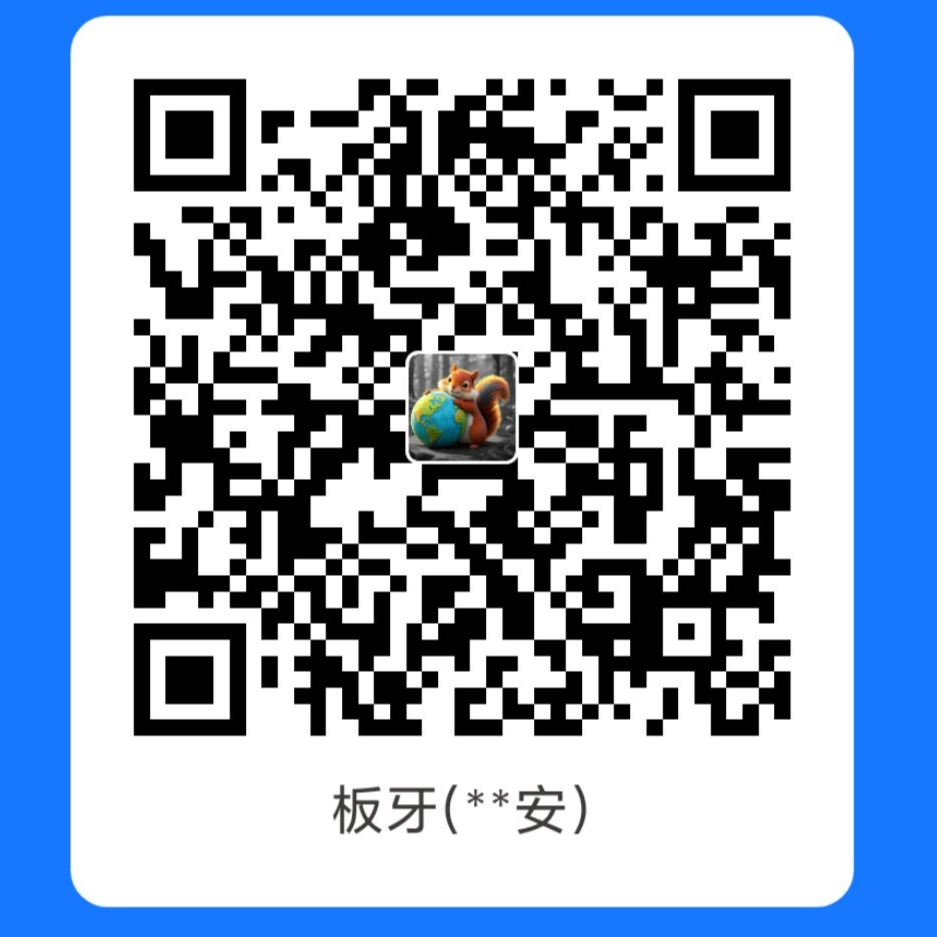
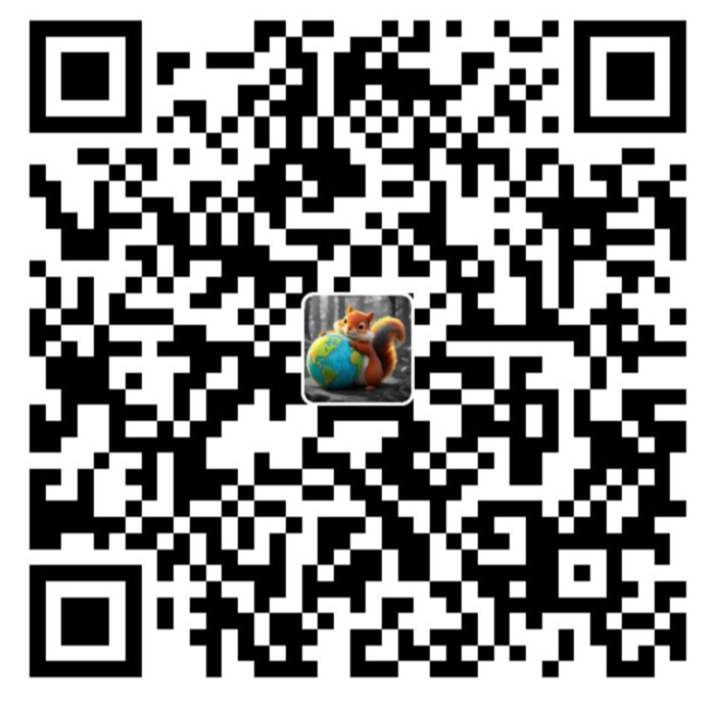
Site updated: 2026-02-08 20:44:09

diff --git a/2026/02/08/模拟海平面上升200米，中国会变成什么样子？/index.html b/2026/02/08/模拟海平面上升200米，中国会变成什么样子？/index.html
@@ -26,16 +26,16 @@
 <meta property="og:site_name" content="星球小捕手">
 <meta property="og:description" content="一、海平面上升这张图是海平面上升 200 米后的中国地形与淹没示意图，我国三大平原、沿海低地几乎全部被淹，仅高原、山地、高海拔盆地保留，海岸线大幅西退。  海平面上升 200 米属于极端理论假设，现实中全球冰盖全部融化，海平面仅会上升约 66 米，远低于 200 米；该图为地形科普示意，用于直观体现中国西高东低的三级阶梯地形对海平面上升的脆弱性差异，东部平原海拔普遍低于 200 米，是淹没高风险区">
 <meta property="og:locale" content="zh_CN">
-<meta property="og:image" content="http://blog.planetcatcher.cn/source/images/2026-2-8-%E4%B8%AD%E5%9B%BD%E5%85%A8%E5%8D%87200.webp">
-<meta property="og:image" content="http://blog.planetcatcher.cn/source/images/2026-2-8%E4%B8%9C%E5%8C%97%E5%8D%87200.webp">
-<meta property="og:image" content="http://blog.planetcatcher.cn/source/images/2026-2-8-%E5%8D%8E%E5%8C%97%E5%8D%87200.webp">
-<meta property="og:image" content="http://blog.planetcatcher.cn/source/images/2026-2-8-%E4%B8%AD%E5%8E%9F%E5%8D%87200.webp">
-<meta property="og:image" content="http://blog.planetcatcher.cn/source/images/2026-2-8-%E5%8D%97%E6%96%B9%E5%8D%87200.webp">
-<meta property="og:image" content="http://blog.planetcatcher.cn/source/images/2026-2-8-%E5%B9%BF%E8%A5%BF%E5%8D%87200.webp">
-<meta property="og:image" content="http://blog.planetcatcher.cn/source/images/2026-2-8-%E8%A5%BF%E8%97%8F%E5%8D%87200.webp">
-<meta property="og:image" content="http://blog.planetcatcher.cn/source/images/2026-2-8%E4%B8%AD%E5%9B%BD%E5%85%A8%E5%8D%87200%EF%BC%88%E6%A0%87%E6%B3%A8%EF%BC%89.webp">
+<meta property="og:image" content="https://planetcatcher.cn/2026-2-8-%E4%B8%AD%E5%9B%BD%E5%85%A8%E5%8D%87200.webp">
+<meta property="og:image" content="https://planetcatcher.cn/2026-2-8%E4%B8%9C%E5%8C%97%E5%8D%87200.webp">
+<meta property="og:image" content="https://planetcatcher.cn/2026-2-8-%E5%8D%8E%E5%8C%97%E5%8D%87200.webp">
+<meta property="og:image" content="https://planetcatcher.cn/2026-2-8-%E4%B8%AD%E5%8E%9F%E5%8D%87200.webp">
+<meta property="og:image" content="https://planetcatcher.cn/2026-2-8-%E5%8D%97%E6%96%B9%E5%8D%87200.webp">
+<meta property="og:image" content="https://planetcatcher.cn/2026-2-8-%E5%B9%BF%E8%A5%BF%E5%8D%87200.webp">
+<meta property="og:image" content="https://planetcatcher.cn/2026-2-8-%E8%A5%BF%E8%97%8F%E5%8D%87200.webp">
+<meta property="og:image" content="https://planetcatcher.cn/2026-2-8%E4%B8%AD%E5%9B%BD%E5%85%A8%E5%8D%87200%EF%BC%88%E6%A0%87%E6%B3%A8%EF%BC%89.webp">
 <meta property="article:published_time" content="2026-02-08T06:42:10.000Z">
-<meta property="article:modified_time" content="2026-02-08T12:10:43.287Z">
+<meta property="article:modified_time" content="2026-02-08T12:41:59.909Z">
 <meta property="article:author" content="板牙">
 <meta property="article:tag" content="海平面模拟">
 <meta property="article:tag" content="地图可视化">
@@ -44,7 +44,7 @@
 <meta property="article:tag" content="公众号同步">
 <meta property="article:tag" content="海平面上升">
 <meta name="twitter:card" content="summary">
-<meta name="twitter:image" content="http://blog.planetcatcher.cn/source/images/2026-2-8-%E4%B8%AD%E5%9B%BD%E5%85%A8%E5%8D%87200.webp">
+<meta name="twitter:image" content="https://planetcatcher.cn/2026-2-8-%E4%B8%AD%E5%9B%BD%E5%85%A8%E5%8D%87200.webp">
 
 
 <link rel="canonical" href="http://blog.planetcatcher.cn/2026/02/08/%E6%A8%A1%E6%8B%9F%E6%B5%B7%E5%B9%B3%E9%9D%A2%E4%B8%8A%E5%8D%87200%E7%B1%B3%EF%BC%8C%E4%B8%AD%E5%9B%BD%E4%BC%9A%E5%8F%98%E6%88%90%E4%BB%80%E4%B9%88%E6%A0%B7%E5%AD%90%EF%BC%9F/">
@@ -247,7 +247,7 @@
       <span class="post-meta-item-text">发表于</span>
       
 
-      <time title="创建时间：2026-02-08 14:42:10 / 修改时间：20:10:43" itemprop="dateCreated datePublished" datetime="2026-02-08T14:42:10+08:00">2026-02-08</time>
+      <time title="创建时间：2026-02-08 14:42:10 / 修改时间：20:41:59" itemprop="dateCreated datePublished" datetime="2026-02-08T14:42:10+08:00">2026-02-08</time>
     </span>
     <span class="post-meta-item">
       <span class="post-meta-item-icon">
@@ -269,7 +269,7 @@
     
     
     <div class="post-body" itemprop="articleBody"><h1 id="一、海平面上升"><a href="#一、海平面上升" class="headerlink" title="一、海平面上升"></a>一、海平面上升</h1><p>这张图是<strong>海平面上升 200 米</strong>后的中国地形与淹没示意图，我国三大平原、沿海低地几乎全部被淹，仅高原、山地、高海拔盆地保留，海岸线大幅西退。</p>
-<p><img data-src="/../source/images/2026-2-8-%E4%B8%AD%E5%9B%BD%E5%85%A8%E5%8D%87200.webp" alt="2026-2-8-中国全升200"></p>
+<p><img data-src="https://planetcatcher.cn/2026-2-8-%E4%B8%AD%E5%9B%BD%E5%85%A8%E5%8D%87200.webp"></p>
 <p><strong>海平面上升 200 米属于极端理论假设，现实中全球冰盖全部融化，海平面仅会上升约 66 米，远低于 200 米</strong>；该图为地形科普示意，用于直观体现中国西高东低的三级阶梯地形对海平面上升的脆弱性差异，东部平原海拔普遍低于 200 米，是淹没高风险区，西部高原山地则具备绝对的地形安全优势。</p>
 <span id="more"></span>
 
@@ -279,30 +279,30 @@
 <li><em>数据基于NASA，利用专业制图软件进行模拟；</em></li>
 <li><em>上升高度为200米（海拔）。</em></li>
 </ol>
-<h2 id="（1）东北区域"><a href="#（1）东北区域" class="headerlink" title="（1）东北区域"></a>（1）东北区域</h2><p><img data-src="/../source/images/2026-2-8%E4%B8%9C%E5%8C%97%E5%8D%87200.webp" alt="2026-2-8东北升200"></p>
+<h2 id="（1）东北区域"><a href="#（1）东北区域" class="headerlink" title="（1）东北区域"></a>（1）东北区域</h2><p><img data-src="https://planetcatcher.cn/2026-2-8%E4%B8%9C%E5%8C%97%E5%8D%87200.webp"></p>
 <p><strong>辽河平原</strong>：作为东北平原南部，直接与渤海连成一片，向南直连华北淹没区，辽宁中部平原完全沉入水下。<strong>三江平原</strong>：黑龙江、乌苏里江、松花江下游平原被海水倒灌淹没，与日本海北部水域连通。</p>
 <p><strong>图中标注的东北三大核心城市全部处于淹没区。</strong></p>
 <p><strong>东北仅海拔高于 200 米的山脉、山地保留为连续陆地，成为孤岛状陆地块：</strong></p>
 <p>	·大兴安岭：西侧完整保留，东侧直接成为新海岸线；</p>
 <p>	·小兴安岭：横亘在淹没区北部，成为半岛型陆地；</p>
 <p>	·长白山脉（太白山脉）、锡霍特山脉：东部纵向山脉完整保留，分隔日本海与内陆淹没海湾，成为东北最主要的连片陆地。</p>
-<h2 id="（2）华北平原"><a href="#（2）华北平原" class="headerlink" title="（2）华北平原"></a>（2）华北平原</h2><p><img data-src="/../source/images/2026-2-8-%E5%8D%8E%E5%8C%97%E5%8D%87200.webp" alt="2026-2-8-华北升200"></p>
+<h2 id="（2）华北平原"><a href="#（2）华北平原" class="headerlink" title="（2）华北平原"></a>（2）华北平原</h2><p><img data-src="https://planetcatcher.cn/2026-2-8-%E5%8D%8E%E5%8C%97%E5%8D%87200.webp"></p>
 <p><strong>东北平原</strong>（我国最大平原）整体海拔低于 200 米，全境被渤海、日本海海水贯通淹没，形成巨型海湾，平原地貌彻底消失。</p>
 <p><strong>北京、天津、石家庄、济南、郑州</strong>等华北所有核心省会、直辖市，全部沉入水下，仅部分极高海拔地块露出零星小岛。<strong>泰山</strong>因海拔超过 200 米，成为黄海上一座孤立的高山岛屿，是华北平原淹没后最显眼的陆地标。<strong>太行山脉</strong>直接成为中国大陆东部的新海岸线，山脉东侧直面汪洋，彻底从内陆山系变为海岸山脉。**</p>
 <p><strong>上海、南京、杭州、合肥、武汉</strong>均处于淹没区，长三角核心经济区、<strong>江淮平原</strong>完全消失。<strong>大别山因海拔较高，成为海域中突出的半岛 &#x2F; 大型岛屿，分隔华北淹没区与长江下游淹没区。</strong></p>
-<p><img data-src="/../source/images/2026-2-8-%E4%B8%AD%E5%8E%9F%E5%8D%87200.webp" alt="2026-2-8-中原升200"></p>
+<p><img data-src="https://planetcatcher.cn/2026-2-8-%E4%B8%AD%E5%8E%9F%E5%8D%87200.webp"></p>
 <p><strong>秦岭、西安</strong>所在的关中盆地因海拔较高，完全保留陆地，成为紧邻新海岸的内陆高地。</p>
 <p><strong>渤海、黄海、东海通过华北、华东淹没区完全贯通连成一片，海岸线向西大幅后退约 500-1000 公里，直抵太行山脉 - 秦岭 - 大别山一线。</strong></p>
 <h2 id="3-南部区域"><a href="#3-南部区域" class="headerlink" title="(3)南部区域"></a>(3)南部区域</h2><p><strong>武汉、长沙、南昌</strong>所在的江汉平原、洞庭湖平原、鄱阳湖平原全域海拔低于 200 米，被海水彻底倒灌淹没，洞庭湖、鄱阳湖与海域连成一体，变为广阔海湾，三座核心省会城市全部处于水下。</p>
-<p><img data-src="/../source/images/2026-2-8-%E5%8D%97%E6%96%B9%E5%8D%87200.webp" alt="2026-2-8-南方升200"></p>
+<p><img data-src="https://planetcatcher.cn/2026-2-8-%E5%8D%97%E6%96%B9%E5%8D%87200.webp"></p>
 <p><strong>广州、香港、澳门</strong>所在的珠江三角洲完全被南海覆盖，成为近海湾区，珠三角经济核心区全部消失。</p>
-<p><img data-src="/../source/images/2026-2-8-%E5%B9%BF%E8%A5%BF%E5%8D%87200.webp" alt="2026-2-8-广西升200"></p>
+<p><img data-src="https://planetcatcher.cn/2026-2-8-%E5%B9%BF%E8%A5%BF%E5%8D%87200.webp"></p>
 <p>广西南部、南宁以东平原、雷州半岛、海口及海南北部平原尽数淹没，仅海南岛中部山地露出成为孤岛。</p>
 <p><strong>台湾岛</strong>因台湾山脉高耸，主体完整保留，仅西海岸平原淹没，与大陆之间形成更宽阔的海峡。</p>
-<h2 id="4-西藏地区"><a href="#4-西藏地区" class="headerlink" title="(4)西藏地区"></a>(4)西藏地区</h2><p><img data-src="/../source/images/2026-2-8-%E8%A5%BF%E8%97%8F%E5%8D%87200.webp" alt="2026-2-8-西藏升200"></p>
+<h2 id="4-西藏地区"><a href="#4-西藏地区" class="headerlink" title="(4)西藏地区"></a>(4)西藏地区</h2><p><img data-src="https://planetcatcher.cn/2026-2-8-%E8%A5%BF%E8%97%8F%E5%8D%87200.webp"></p>
 <p><strong>青藏高原平均海拔超 4000 米，喜马拉雅山脉、横断山脉为世界顶级高海拔山系，海拔远高于 200 米，海水完全无法触及，无任何陆地被淹没，是中国最安全的核心区域。</strong></p>
 <p>与中国高原形成强烈反差，印度北部恒河平原低海拔区域，被印度洋海水倒灌、大面积淹没，沿海与北部平原大片变为海域，地形损失极大，这也是西高东低、北高南低地形带来的巨大安全差异。</p>
-<h1 id="三、最后说说"><a href="#三、最后说说" class="headerlink" title="三、最后说说"></a>三、最后说说</h1><p><img data-src="/../source/images/2026-2-8%E4%B8%AD%E5%9B%BD%E5%85%A8%E5%8D%87200%EF%BC%88%E6%A0%87%E6%B3%A8%EF%BC%89.webp" alt="2026-2-8中国全升200（标注）"></p>
+<h1 id="三、最后说说"><a href="#三、最后说说" class="headerlink" title="三、最后说说"></a>三、最后说说</h1><p><img data-src="https://planetcatcher.cn/2026-2-8%E4%B8%AD%E5%9B%BD%E5%85%A8%E5%8D%87200%EF%BC%88%E6%A0%87%E6%B3%A8%EF%BC%89.webp"></p>
 <p>这组海平面上升 200 米的全国地形模拟，虽为极端理论假设（现实全球冰盖全融仅升约 66 米），却用直观的地理格局变化，为我们揭开了地形、发展与风险的深层关联，也让我们对海平面上升的影响有了更清晰的认知。感谢能读到这的各位~</p>
 
     </div>

diff --git a/index.html b/index.html
@@ -228,7 +228,7 @@
       <span class="post-meta-item-text">发表于</span>
       
 
-      <time title="创建时间：2026-02-08 14:42:10 / 修改时间：20:10:43" itemprop="dateCreated datePublished" datetime="2026-02-08T14:42:10+08:00">2026-02-08</time>
+      <time title="创建时间：2026-02-08 14:42:10 / 修改时间：20:41:59" itemprop="dateCreated datePublished" datetime="2026-02-08T14:42:10+08:00">2026-02-08</time>
     </span>
     <span class="post-meta-item">
       <span class="post-meta-item-icon">
@@ -251,7 +251,7 @@
     
     <div class="post-body" itemprop="articleBody">
           <h1 id="一、海平面上升"><a href="#一、海平面上升" class="headerlink" title="一、海平面上升"></a>一、海平面上升</h1><p>这张图是<strong>海平面上升 200 米</strong>后的中国地形与淹没示意图，我国三大平原、沿海低地几乎全部被淹，仅高原、山地、高海拔盆地保留，海岸线大幅西退。</p>
-<p><img data-src="/../source/images/2026-2-8-%E4%B8%AD%E5%9B%BD%E5%85%A8%E5%8D%87200.webp" alt="2026-2-8-中国全升200"></p>
+<p><img data-src="https://planetcatcher.cn/2026-2-8-%E4%B8%AD%E5%9B%BD%E5%85%A8%E5%8D%87200.webp"></p>
 <p><strong>海平面上升 200 米属于极端理论假设，现实中全球冰盖全部融化，海平面仅会上升约 66 米，远低于 200 米</strong>；该图为地形科普示意，用于直观体现中国西高东低的三级阶梯地形对海平面上升的脆弱性差异，东部平原海拔普遍低于 200 米，是淹没高风险区，西部高原山地则具备绝对的地形安全优势。</p>
           <!--noindex-->
             <div class="post-button">

diff --git a/css/main.css b/css/main.css
@@ -1222,7 +1222,7 @@ pre code {
     vertical-align: middle;
   }
   .links-of-author a::before {
-    background: #86908a;
+    background: #ffb5ff;
     display: inline-block;
     margin-right: 3px;
     transform: translateY(-2px);
